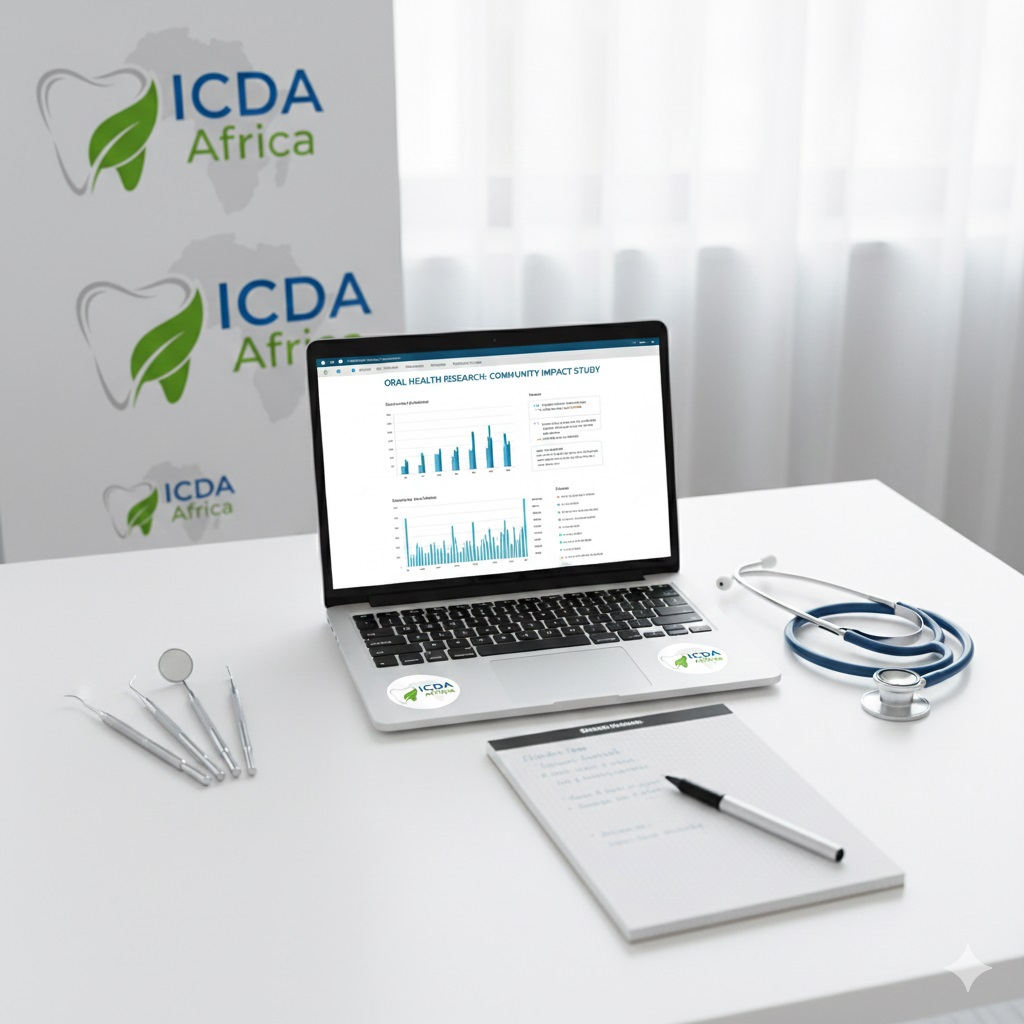
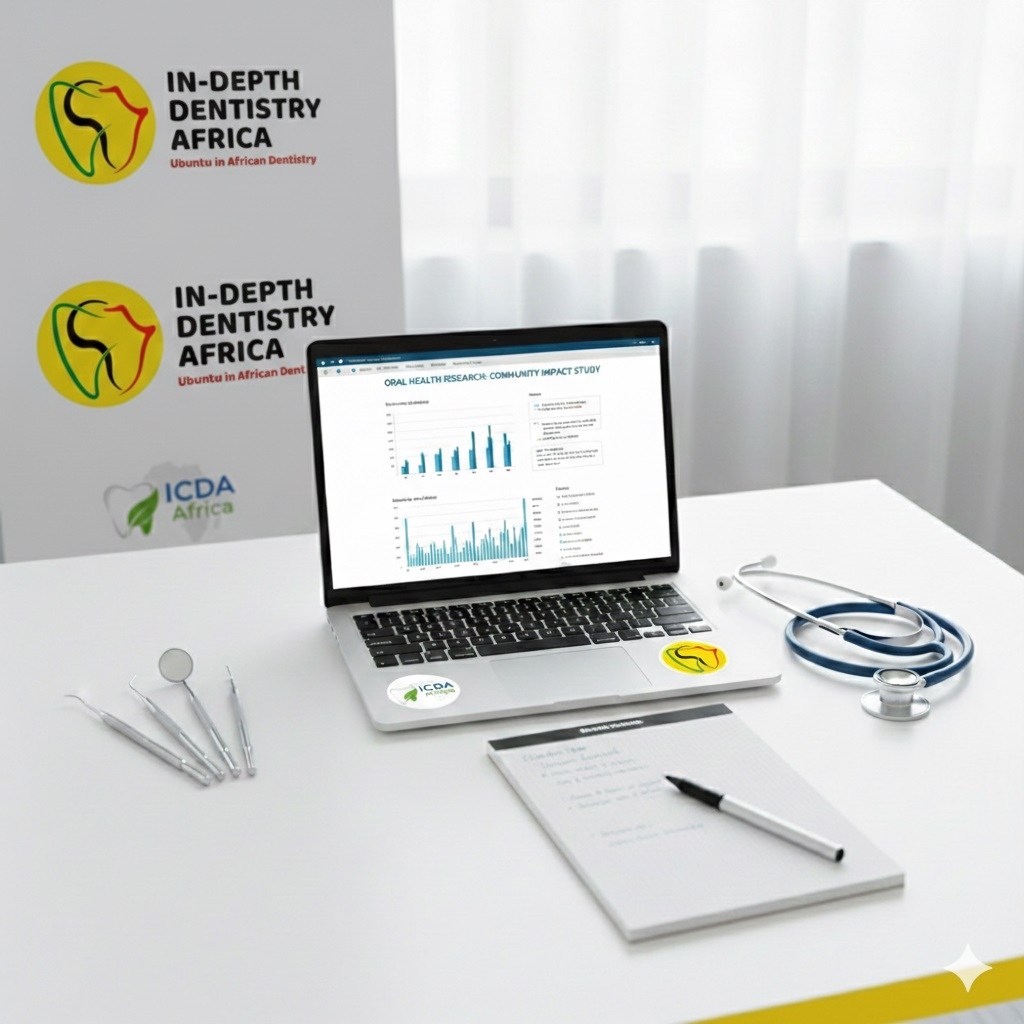
Save current changes

diff --git a/icda-africa/index.html b/icda-africa/index.html
@@ -111,12 +111,16 @@
           <p>Patients Served</p>
         </div>
         <div class="stat-card" role="group" aria-label="Countries reached">
-          <h3><span class="count" data-target="15">0</span>+</h3>
+          <h3><span class="count" data-target="16">0</span>+</h3>
           <p>Countries Reached</p>
         </div>
         <div class="stat-card" role="group" aria-label="Volunteers">
           <h3><span class="count" data-target="50">0</span>+</h3>
           <p>Volunteers</p>
+        </div>
+        <div class="stat-card" role="group" aria-label="Dental-Students Reached">
+          <h3><span class="count" data-target="1200">0</span>+</h3>
+          <p>Dental-Students Reached</p>
         </div>
       </div>
     </div>
@@ -224,16 +228,20 @@
                 <p>Communities Served</p>
             </div>
             <div class="fade-in-card" data-index="1">
-                <h3>12</h3>
+                <h3>16</h3>
                 <p>African Countries</p>
             </div>
             <div class="fade-in-card" data-index="2">
-                <h3>5K+</h3>
+                <h3>50</h3>
                 <p>People Reached</p>
             </div>
             <div class="fade-in-card" data-index="3">
                 <h3>25</h3>
                 <p>Research Projects</p>
+            </div>
+            <div class="fade-in-card" data-index="3">
+                <h3>75000</h3>
+                <p>Annual Target</p>
             </div>
         </div>
     </div>
@@ -242,7 +250,7 @@
 <!-- Footer -->
 <footer class="footer">
     <div class="container">
-        <p>© 2026 ICDA Africa. All Rights Reserved.</p>
+        <p>© 2026 In-depth Dentistry Africa. All Rights Reserved.</p>
     </div>
 </footer>
 

diff --git a/icda-africa/join.html b/icda-africa/join.html
@@ -213,7 +213,7 @@
 <!-- Footer -->
 <footer class="footer">
     <div class="container">
-        <p>&copy; 2024 ICDA Africa. All rights reserved. Transforming Oral Health Across Africa.</p>
+        <p>&copy; 2026 In-depth Dentistry Africa. All rights reserved. Transforming Oral Health Across Africa.</p>
         <div class="footer-links">
             <a href="#privacy">Privacy Policy</a> | 
             <a href="#terms">Terms of Service</a> | 

diff --git a/icda-africa/about.html b/icda-africa/about.html
@@ -292,7 +292,7 @@
 <!-- Footer -->
 <footer class="footer">
     <div class="container">
-        <p>© 2026 Indepth Community Dentistry Africa Ltd. All Rights Reserved.</p>
+        <p>© 2026 In-depth Dentistry Africa Ltd. All Rights Reserved.</p>
     </div>
 </footer>
 
